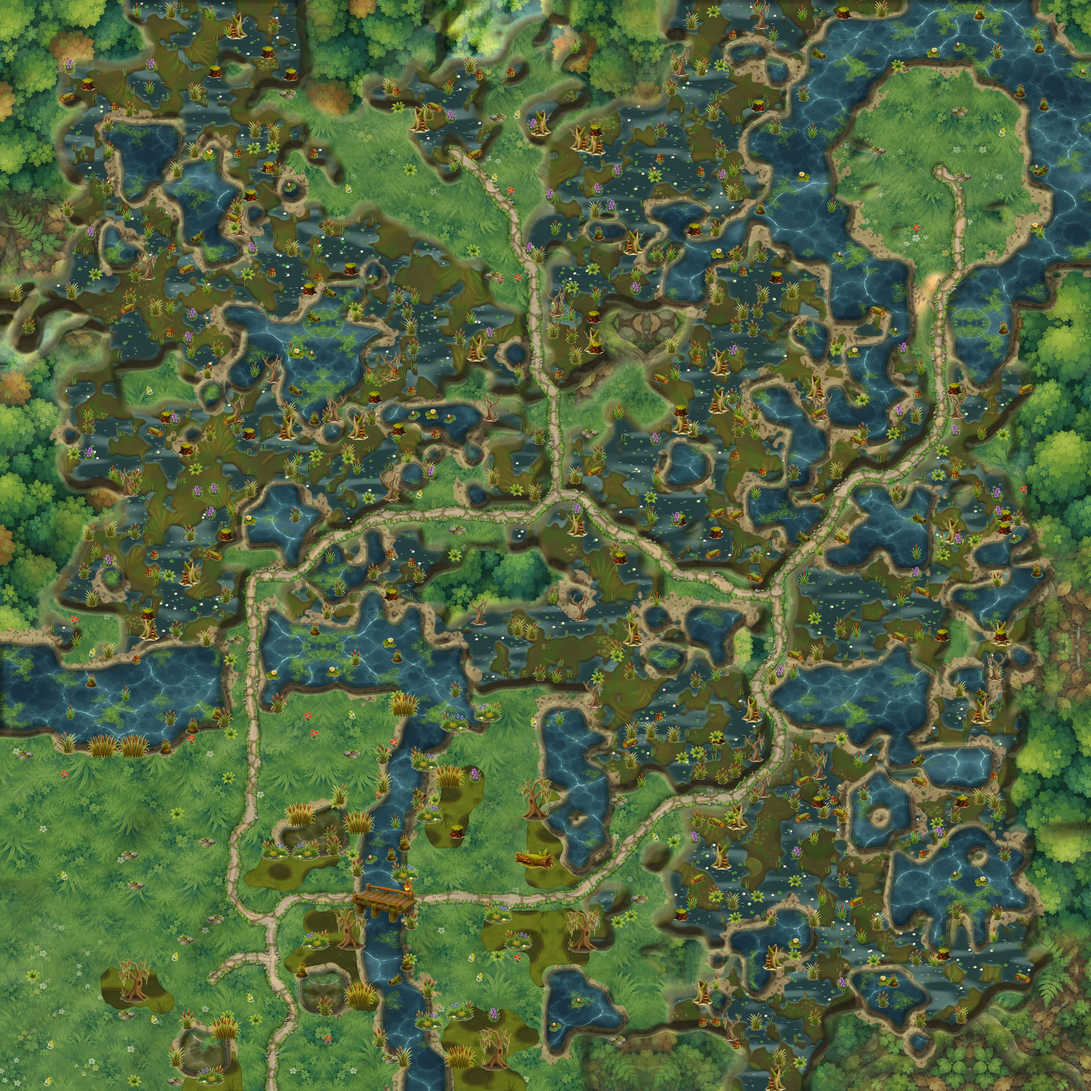
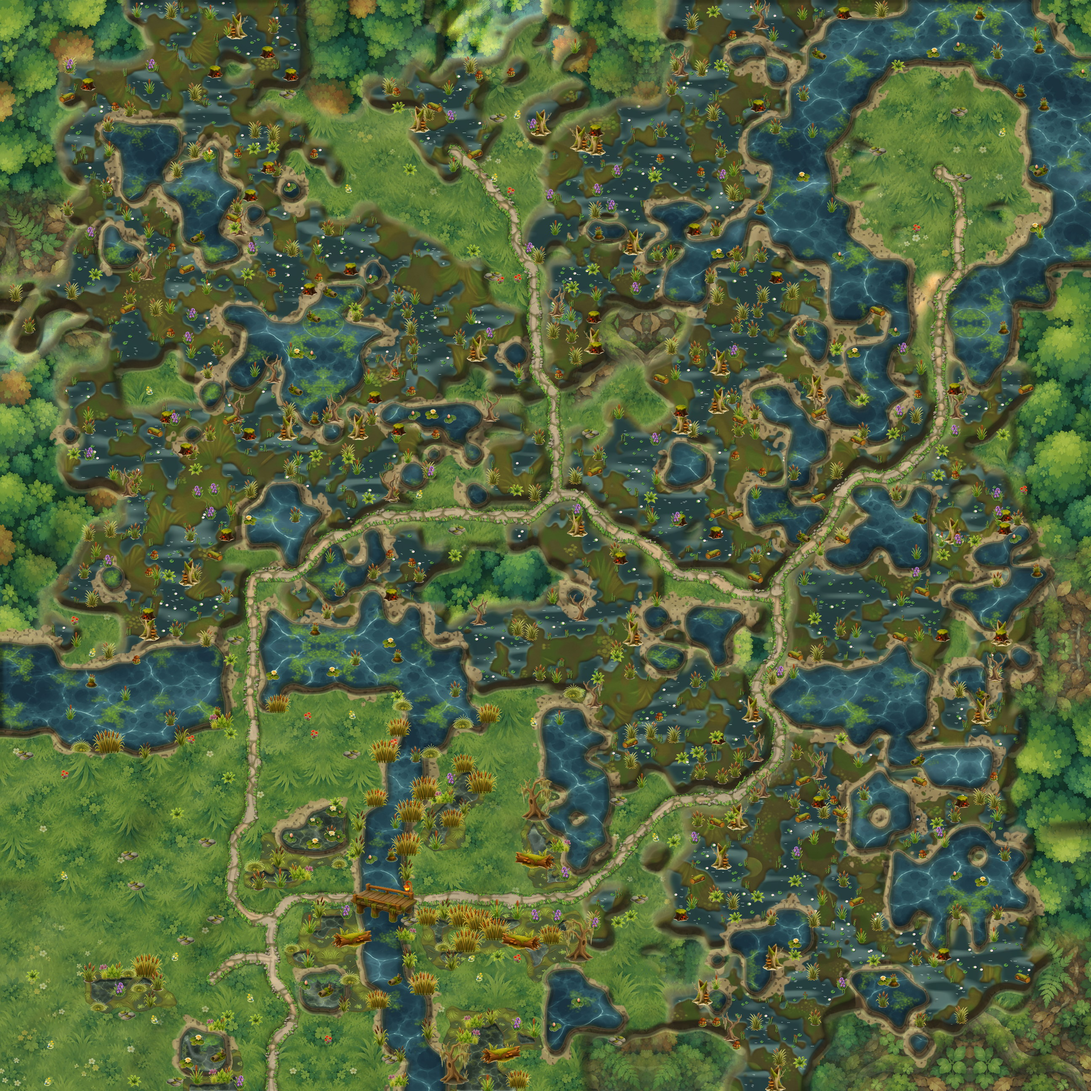
Twierdza r9 zbudowana, u zrzutów
Claude-Session: https://claude.ai/code/session_01Qu47Qn6gy3U54smkJJnCXL

diff --git a/src/data/plansza-teren-bagna.ts b/src/data/plansza-teren-bagna.ts
@@ -54,11 +54,11 @@ export const TEREN = [
   'TTT.######.=Tbbbb.~~......bb~b=.b.bbbbbbbbbb~b~~b~~TTT',
   'TT..######.=bbb...~~......bbb=...bbbbbbbbbbb~~~~~~TTTT',
   'TT..######.=TT===============bb..bbbbbbbbbbb~~~~~~~TTT',
-  'TTT.........==.bbb~~....bbbbbb..bbbbbb~~bbbb~b~b~bbTTT',
-  'TTT..........=.bbb~~....bbbbbb...TTb~~~~bbbbbb~b~bbTTT',
-  'TTT........===bbbb~~...TTTbbb...TTT~b~bbbbbbbbbbbbbbTT',
-  'TTTT.bbb..=..=.~~b~~...TTTb~~....TTbb~bbbb~~~bbbbbbTTT',
-  'TTTT.bbbb.....=~~bb~~...TTT~~~...bb~bbbbbbb~~~bbb..TTT',
+  'TTT.........==.bbb~~.bbbbbbbbb..bbbbbb~~bbbb~b~b~bbTTT',
+  'TTT..........=.bbb~~.b.bbbbbbb...TTb~~~~bbbbbb~b~bbTTT',
+  'TTT........===bbbb~~.bbTTTbbb...TTT~b~bbbbbbbbbbbbbbTT',
+  'TTTTbbbb..=..=.~~b~~...TTTb~~....TTbb~bbbb~~~bbbbbbTTT',
+  'TTTTbbbbb.....=~~bb~~...TTT~~~...bb~bbbbbbb~~~bbb..TTT',
   'TTTT#####.....=####~~.bbbbT~~~~..bbbbbbbbTTT~bbbTTTTTT',
   'TTTT#####~~..=.####~~.bbbbb~TT.TTTTTbbbbbTTTT~TTTTTTTT',
   'TTTT#####~~b.=.#####~~bbbTTTTTTTTTTTTbbbTTTTTTTTTTTTTT',

diff --git a/src/data/plansza-teren-twierdza.ts b/src/data/plansza-teren-twierdza.ts
@@ -133,7 +133,7 @@ export const ROZSTAWIENIE: Array<{
   { x: 20, y: 55, rodzaj: 'budynek', strefa: 'dom', budynek: 'zrodlo' },
   { x: 24, y: 57, rodzaj: 'budynek', strefa: 'dom', budynek: 'woz' },
   { x: 12, y: 65, rodzaj: 'budynek', strefa: 'dom', budynek: 'ognisko' },
-  { x: 15, y: 63, rodzaj: 'surowiec', strefa: 'dom', surowiec: 'odlamek' },
+  { x: 22, y: 61, rodzaj: 'surowiec', strefa: 'dom', surowiec: 'odlamek' },
   { x: 19, y: 67, rodzaj: 'skrzynia', strefa: 'dom' },
   { x: 17, y: 63, rodzaj: 'budynek', strefa: 'dom', budynek: 'oboz-treningowy' },
   { x: 20, y: 58, rodzaj: 'potwor', strefa: 'dom', sila: 'slaby' },
@@ -419,7 +419,7 @@ export const USTAWIENIA = {
   ],
   "znajdzki": 0.55,
   "skalaZamku": 1.8,
-  "skalaKepLasu": 0.8,
+  "skalaKepLasu": 0.76,
   "cienBudowli": {
     "szer": 0.7,
     "krycie": 0.6

diff --git a/tools/mapy/bagna.py b/tools/mapy/bagna.py
@@ -733,7 +733,7 @@ BARWY_TERENU = {
     # ciemna woda obok ciemnego błota to była jedna plama.
     'woda': {'nasycenie': 0.9, 'barwa': (92, 112, 138), 'moc': 0.35, 'jasnosc': 1.32},
     # Runda 6 („zieleń wokół obiektów przygasić"): łąka mniej nasycona.
-    'trawa': {'nasycenie': 0.5, 'barwa': (100, 140, 112), 'moc': 0.55, 'jasnosc': 0.78},
+    'trawa': {'nasycenie': 0.5, 'barwa': (116, 136, 86), 'moc': 0.55, 'jasnosc': 0.76},
     'las': {'nasycenie': 0.7, 'barwa': (90, 110, 75), 'moc': 0.4, 'jasnosc': 0.82},
     # Runda 8 („rozjaśnić teren"): błoto trzęsawiska o ton jaśniejsze
     # i cieplejsze — czarnobrunatne łaty przy dolinie czytały się jak dziury.
@@ -872,15 +872,18 @@ MOKRADLA = {
     'pol_na_teksture': 4,
     # Jaką część wnętrza mokradła zajmują oczka wody, i najmniejsze oczko
     # (w polach powierzchni) — drobniejsze to już kropki, nie woda.
-    'oczka': 0.46,
+    'oczka': 0.55,
     'oczko_min': 0.22,
-    # Torfowa woda oczek: płycizna przy brzegu, głębia, zmarszczki, refleks
+    # Torfowa woda oczek: barwa tafli (`_zabarw` zmarszczek `teren-woda-czarna`),
+    # przyciemnienie w głębi, refleks
     # nieba, błoto brzegu (pas 2–3 px) i cień skarpy u górnego brzegu.
-    'woda': {'plytka': (74, 70, 42), 'gleboka': (30, 34, 26), 'glebia': 0.35, 'zmarszczki': 0.55,
-             'niebo': (176, 192, 186), 'refleks': 0.7, 'bloto': (96, 78, 46), 'cien': 0.5},
+    'woda': {'barwa': {'nasycenie': 0.45, 'barwa': (124, 118, 76), 'moc': 0.6, 'jasnosc': 1.45},
+             'glebia': 0.4, 'ciemniej': 0.3,
+             'niebo': (176, 192, 186), 'refleks': 0.35, 'bloto': (96, 78, 46), 'cien': 0.5},
     # Stawy kadru: ta sama woda, szersza płycizna (brzeg maluje `brzeg_wody`).
-    'staw': {'plytka': (80, 76, 46), 'gleboka': (32, 36, 28), 'glebia': 0.7, 'zmarszczki': 0.6,
-             'niebo': (168, 184, 176), 'refleks': 0.45, 'bloto': (96, 78, 46), 'cien': 0.45},
+    'staw': {'barwa': {'nasycenie': 0.45, 'barwa': (124, 118, 76), 'moc': 0.6, 'jasnosc': 1.55},
+             'glebia': 0.9, 'ciemniej': 0.3,
+             'niebo': (176, 192, 186), 'refleks': 0.35, 'bloto': (96, 78, 46), 'cien': 0.45},
 }
 
 
@@ -897,7 +900,7 @@ def _pod_obiektami(fx0, fy0, W, H, kafel):
     for r in re.finditer(r"\{ x: (\d+), y: (\d+), rodzaj: '([a-z-]+)'", blok):
         x, y, rodzaj = int(r.group(1)), int(r.group(2)), r.group(3)
         if rodzaj in ('budynek', 'kopalnia'):
-            xs, ys = (x - 1.2, x + 2.2), (y - 1.0, y + 1.15)
+            xs, ys = (x - 0.9, x + 1.9), (y - 0.8, y + 1.05)
         else:
             xs, ys = (x - 0.1, x + 1.1), (y - 0.1, y + 1.1)
         a0, a1 = int(max(0, (xs[0] - fx0) * kafel)), int(min(W, (xs[1] - fx0) * kafel))
@@ -920,16 +923,16 @@ def _maluj_wode(kaw, maska, kafel, ziarno, u, mul_brzeg=True):
     if not maska.any():
         return kaw
     H, W = maska.shape
+    # Tafla: zmarszczki `teren-woda-czarna` (to po nich oko poznaje wodę,
+    # jak na Strudze) przemalowane na mętną, oliwkową toń; w głębi ciemniej.
     bok = int(kafel * 5)
-    wt = np.asarray(kafelkuj(tekstura('woda-czarna').resize((bok, bok), Image.LANCZOS), W, H,
-                             (ziarno % 97, ziarno % 61)).convert('L'), np.float32)
-    detal = (wt - gaussian_filter(wt, kafel * 0.3))[..., None]
+    tafla = _zabarw(tekstura('woda-czarna').resize((bok, bok), Image.LANCZOS), u['barwa'])
+    woda = np.asarray(kafelkuj(tafla, W, H, (ziarno % 97, ziarno % 61)), np.float32)
     glab = gaussian_filter(np.clip(distance_transform_edt(maska) / (kafel * u['glebia']), 0, 1), 2)[..., None]
-    plytka, gleboka = np.array(u['plytka'], np.float32), np.array(u['gleboka'], np.float32)
-    woda = plytka * (1 - glab) + gleboka * glab + detal * u['zmarszczki']
+    woda = woda * (1 - glab * u['ciemniej'])
     yy, xx = np.mgrid[0:H, 0:W]
     s = szum(W, H, max(2, int(kafel * 0.8)), ziarno)
-    refleks = (np.clip(np.sin((xx * 0.8 - yy * 0.45) / (kafel * 0.26) + s * 3.0), 0, 1) ** 4
+    refleks = (np.clip(np.sin((xx * 0.8 - yy * 0.45) / (kafel * 0.5) + s * 3.0), 0, 1) ** 3
                * np.clip(s * 1.4 + 0.45, 0, 1) * np.clip(glab[..., 0] * 3, 0, 1))[..., None] * u['refleks']
     woda = woda * (1 - refleks) + np.array(u['niebo'], np.float32) * refleks
     # Cień skarpy: woda tuż pod lądem od góry (światło z góry, brzeg wyżej).
@@ -958,6 +961,11 @@ NAKLEJKI_MOKRADLA = {
     'trzcinowisko-2': 50,
     'martwe-drzewo-3': 104,
     'powalony-pien': 50,
+    # Runda 12 (PROMPTY-PLANSZE §23): szuwary bez podstawki i grążele.
+    'szuwar-1': 54,
+    'szuwar-2': 38,
+    'szuwar-3': 44,
+    'grazele': 30,
 }
 
 
@@ -1002,6 +1010,29 @@ def przygotuj_naklejki_mokradla():
             woda = (a > 10) & dol & (sat < 0.3) & (lum < 205)
             nowa = np.stack([lum * 0.42 + 40, lum * 0.42 + 40, lum * 0.3 + 18], -1)
             t[..., :3] = np.where(woda[..., None], nowa, rgb)
+        if nazwa == 'grazele':
+            # Z API: kremowa „grubość" liścia (rant jak u talerzyka) wokół
+            # kępy — zdjęta tam, gdzie styka się z tłem; kwiat zostaje.
+            from scipy.ndimage import label
+            rgb, a = t[..., :3], t[..., 3]
+            mx, mn = rgb.max(-1), rgb.min(-1)
+            krem = (a > 10) & (rgb.mean(-1) > 150) & ((mx - mn) / np.maximum(mx, 1) < 0.4)
+            krem[220:520, 760:1200] = False
+            tlo = a <= 10
+            etyk, _ = label(krem | tlo)
+            t[..., 3] = np.where(krem & np.isin(etyk, np.unique(etyk[tlo])), 0, a)
+        if nazwa == 'szuwar-2':
+            # Z API jaskrawo żółta — na mokradle świeciła jak kwiatek.
+            rgb = t[..., :3]
+            szary = rgb.mean(-1, keepdims=True)
+            t[..., :3] = (szary + (rgb - szary) * 0.75) * np.array([0.82, 0.9, 0.8], np.float32)
+        if nazwa.startswith('szuwar'):
+            # Łodygi gasną u dołu (bez uciętej krawędzi i bez jasnej mgiełki
+            # podstawy, którą API dokłada pod kępę).
+            ys = np.where((t[..., 3] > 20).any(1))[0]
+            y0, y1 = ys[0], ys[-1]
+            yy = np.arange(t.shape[0], dtype=np.float32)[:, None]
+            t[..., 3] *= np.clip((y1 - yy) / (0.16 * (y1 - y0)), 0, 1)
         im = Image.fromarray(t.astype(np.uint8), 'RGBA')
         im = im.crop(im.getchannel('A').point(lambda v: 255 if v > 12 else 0).getbbox())
         w = max(1, round(im.width * wys / im.height))
@@ -1071,6 +1102,7 @@ def DOMALUJ(plansza, rysunek, kafel, droga=None, maska_wody=None):
     # i cieniem skarpy u górnego brzegu, jak woda w dołku. Grunt między
     # oczkami: błoto z turzycą (`teren-bloto`), oliwkowe, ciemniejsze od łąki.
     M = MOKRADLA
+    stawy_kadru = None
     bok = int(kafel * M['pol_na_teksture'])
     tex = tekstura(M['tekstura']).resize((bok, bok), Image.LANCZOS)
     grunt = np.asarray(_zabarw(kafelkuj(tex, W, H, (-X0 + 17, -Y0 + 31)), M['grunt']), np.float32)
@@ -1111,6 +1143,7 @@ def DOMALUJ(plansza, rysunek, kafel, droga=None, maska_wody=None):
         struga = etyk[int((ry + 0.5) * kafel) - Y0, int((rx + 0.5) * kafel) - X0]
         fx0k, fy0k, fx1k, fy1k = KADR_TRZCINY
         stawy = np.zeros_like(mw, bool)
+        stawy_kadru = stawy
         for e in set(np.unique(etyk)) - {0, struga}:
             yy, xx = np.nonzero(etyk == e)
             if fx0k * kafel <= xx.min() + X0 and xx.max() + X0 < fx1k * kafel and fy0k * kafel <= yy.min() + Y0:
@@ -1141,12 +1174,13 @@ def DOMALUJ(plansza, rysunek, kafel, droga=None, maska_wody=None):
     # Runda 12: bez `trzcinowisko-2` i `kepa-turzycy` — mają z API okrągłą
     # podstawkę (placek wody/ziemi pod kępą), która na mokradle wyglądała
     # jak naklejka na talerzyku.
-    duze = [x for x in (wczytaj('trzcinowisko-1'), wczytaj('trzcinowisko-1', 0.8)) if x]
+    duze = [x for x in (wczytaj('trzcinowisko-1'), wczytaj('trzcinowisko-1', 0.8), wczytaj('szuwar-3'),
+                        wczytaj('szuwar-3', 0.85)) if x]
     drzewa = [x for x in (wczytaj('martwe-drzewo-3'), wczytaj('powalony-pien')) if x]
-    male = [x for x in (wczytaj('trzcina-1', 1.25), wczytaj('trzcina-2', 1.25), wczytaj('trzcina-3', 1.3),
-                        wczytaj('irysy', 1.1)) if x]
-    na_wodzie = [x for x in (wczytaj('grazel-1', 1.1), wczytaj('grazel-2', 1.1), wczytaj('grazel-1', 0.8),
-                             wczytaj('grazel-2', 0.8), wczytaj('pien-zatopiony', 1.1)) if x]
+    male = [x for x in (wczytaj('szuwar-1'), wczytaj('szuwar-1', 0.8), wczytaj('szuwar-2'), wczytaj('szuwar-2', 0.8),
+                        wczytaj('trzcina-1', 1.25), wczytaj('trzcina-3', 1.3), wczytaj('irysy', 1.1)) if x]
+    na_wodzie = [x for x in (wczytaj('grazele'), wczytaj('grazele', 0.75), wczytaj('grazel-1', 1.1),
+                             wczytaj('grazel-2', 1.1), wczytaj('pien-zatopiony', 1.1)) if x]
     naklejki = []
     postawione = []
 
@@ -1176,7 +1210,7 @@ def DOMALUJ(plansza, rysunek, kafel, droga=None, maska_wody=None):
     rant = np.argwhere(obszar & ~oczka & (d_oczko > 2) & (d_oczko < kafel * 0.22) & (d_in > 4))
     for i in rng.permutation(len(rant)):
         py, px = rant[i]
-        if rng.random() > 0.25:
+        if rng.random() > 0.15:
             continue
         n = (duze + male)[int(rng.integers(0, len(duze) + len(male)))]
         if d_droga[py, px] < n.width * 0.5 + kafel * 0.1 or not wolne(py, px, kafel * 0.42):
@@ -1184,13 +1218,16 @@ def DOMALUJ(plansza, rysunek, kafel, droga=None, maska_wody=None):
         postaw(py, px, n, kafel * 0.42, int(kafel * 0.1))
     # Grążele i zatopione pnie na oczkach.
     tafla = np.argwhere(oczka & (w_oczku > kafel * 0.16))
+    if stawy_kadru is not None:
+        w_stawie = distance_transform_edt(stawy_kadru)
+        tafla = np.concatenate([tafla, np.argwhere(stawy_kadru & (w_stawie > kafel * 0.35))])
     for i in rng.permutation(len(tafla)):
         py, px = tafla[i]
         if not na_wodzie or rng.random() > 0.2:
             continue
-        if not wolne(py, px, kafel * 0.38):
+        if not wolne(py, px, kafel * 0.55):
             continue
-        postaw(py, px, na_wodzie[int(rng.integers(0, len(na_wodzie)))], kafel * 0.38, int(kafel * 0.2))
+        postaw(py, px, na_wodzie[int(rng.integers(0, len(na_wodzie)))], kafel * 0.55, int(kafel * 0.2))
     # Reszta lądu mokradła: pojedyncze kępy.
     for fy, fx in pola_m:
         if not male or rng.random() > 0.35:

diff --git a/tools/mapy/twierdza.py b/tools/mapy/twierdza.py
@@ -255,7 +255,9 @@ PIERWSZY_EKRAN = [
     ([(24, 57), (23, 57), (23, 56)], ('budynek', 'woz')),
     # Wylot korytarza przy zamku: ognisko, kupka odłamków przy trakcie.
     ([(12, 65), (11, 65), (12, 66)], ('budynek', 'ognisko')),
-    ([(15, 63), (14, 63), (16, 63)], ('surowiec', 'odlamek')),
+    # (Runda 9: kupka odłamków nie leży już na skraju boru — rysunek kępy
+    # sięga rzędu wyżej i kupka czytała się jak położona na koronach drzew.)
+    ([(22, 61), (22, 60)], ('surowiec', 'odlamek')),
     # Zatoczka na końcu korytarza, pod borem.
     ([(19, 67), (18, 67), (20, 67)], ('skrzynia', None)),
     # Runda 8 (HotA): „pola śniegu między jeziorem a zamkiem i pas od ścieżki
@@ -502,7 +504,7 @@ USTAWIENIA = {
     # Runda 9 (HotA): „świerki w prawej dolnej ćwiartce wyższe od zamku i młyna
     # — drzewa do skali kafla". Kępy boru (nowe rysunki: zwarty masyw małych
     # świerków, PROMPTY-PLANSZE §3) rysowane mniejsze, stopa na miejscu.
-    'skalaKepLasu': 0.8,
+    'skalaKepLasu': 0.76,
     # Runda 8 (HotA): „wiatrak, chata nad jeziorem i chatka wiszą na śniegu
     # jak naklejki". Szeroka plama cienia spod śnieżnej podstawki przyciemniała
     # sinawy śnieg wokół budynku, a jasna podstawka nad nią czytała się jak

diff --git a/tools/PROMPTY-PLANSZE.md b/tools/PROMPTY-PLANSZE.md
@@ -1940,3 +1940,77 @@ right, two small shelf mushrooms and a few ferns growing on it, a little
 murky water and reeds around its middle. Low and long, about three times as
 wide as tall.
 ```
+
+## 23. Bagna — szuwary i grążele na oczkach mokradła (runda 12, wzorzec HotA)
+
+Werdykt rundy 11: „rozlewiska to blade, zamazane plamy bez wody, błota
+i szuwarów". Oczka mokradła maluje teraz `DOMALUJ` (`tools/mapy/bagna.py`)
+jako ciemną, mętną toń z ostrym brzegiem i pasem błota; te naklejki stoją na
+ich brzegach i taflach. Jedno `trzcinowisko-1` powtórzone kilkanaście razy
+czytało się jak stempel, a kępy z §8 i `trzcinowisko-2` mają z API okrągłą
+podstawkę (talerzyk wody lub ziemi pod kępą). Tu każda kępa BEZ podstawki.
+Obiera i skaluje je `bagna.przygotuj_naklejki_mokradla()`.
+
+<!-- plik: bagno-szuwar-1.png | styl: obiekt -->
+```
+A single tall clump of fresh green bulrushes growing in a swamp, seen from
+above at a three-quarter angle like vegetation on a Heroes of Might and Magic
+3 adventure map: about fifteen long slender bright green and olive-green
+leaves and stalks fanning upward and outward, four dark brown velvety cattail
+heads on thin stems at different heights, a couple of blades bent over. The
+stalks simply end at the bottom in a small tight point, with NO ground, NO
+water, NO mud patch and NO shadow under them. Taller than wide.
+```
+
+<!-- plik: bagno-szuwar-2.png | styl: obiekt | proporcje: 3:2 -->
+```
+A low, wide tussock of marsh sedge grass seen from above at a three-quarter
+angle like vegetation on a Heroes of Might and Magic 3 adventure map: dense
+arching blades of yellow-green, olive and a few straw-coloured sedge leaves
+spilling outward in all directions like a fountain, a few thin green rushes
+poking up from the middle, three small yellow marsh marigold flowers at the
+front. NO ground, NO water, NO mud patch and NO shadow under it — only the
+plant. About twice as wide as tall, soft irregular silhouette.
+```
+
+<!-- plik: bagno-grazele.png | styl: obiekt | proporcje: 3:2 -->
+```
+A small floating group of water lily pads seen almost straight from above,
+like decoration on the water of a Heroes of Might and Magic 3 adventure map:
+five round glossy dark green lily pads of different sizes, each with the
+typical narrow notch, overlapping a little, one pad slightly curled at the
+edge showing a reddish underside, one open white water lily flower with a
+yellow centre and one closed pink bud. Only the pads and flowers, NO water
+surface around them, NO ripples, NO shadow. Wider than tall, flat.
+```
+
+<!-- plik: bagno-szuwar-3.png | styl: obiekt | proporcje: 3:2 -->
+```
+A wide low bank of mixed swamp plants seen from above at a three-quarter
+angle like vegetation on a Heroes of Might and Magic 3 adventure map: on the
+left a few tall green reeds with two brown cattail heads, in the middle a
+clump of broad bright green arrowhead leaves, on the right a tuft of fine
+yellow-green sedge and two purple marsh iris flowers. The plants end at the
+bottom in a ragged line of stems, with NO ground, NO water, NO mud patch and
+NO shadow under them. About twice as wide as tall.
+```
+
+Środek dolnej krawędzi kadru — werdykt rundy 11: „góry w lewym dolnym rogu
+i na środku dolnej krawędzi to powielone, identyczne stożki wstawione jak
+stemple" (`gora-9` i `gora-10` to ten sam kłąb szarych szpiców). Tu inna
+bryła: skalny próg z półkami i urwiskami, wyrastający z mokradła.
+
+<!-- plik: bagno-gora-11.png | styl: obiekt | proporcje: 3:2 -->
+```
+A broad rocky outcrop rising out of a swamp, for a swampland adventure map,
+seen from high above at a steep three-quarter top-down angle exactly like the
+rock formations on a Heroes of Might and Magic 3 adventure map: NOT pointed
+cone peaks, but a wide heavy mass of layered dark grey-brown rock with flat
+mossy tops, stepped ledges and short vertical cliffs, split by a deep cleft in
+the middle where a thin white waterfall drops into a small dark pool at the
+foot. Three or four dead grey swamp trees with bare twisted branches and
+hanging moss stand on the ledges. Rock lit from the upper left, cool blue-grey
+shadows, thick dark green moss on every ledge. Around the whole foot: a skirt
+of grey scree and tumbled mossy boulders sinking into reeds, cattails and
+patches of murky water, the edge soft and irregular. Much wider than tall.
+```
